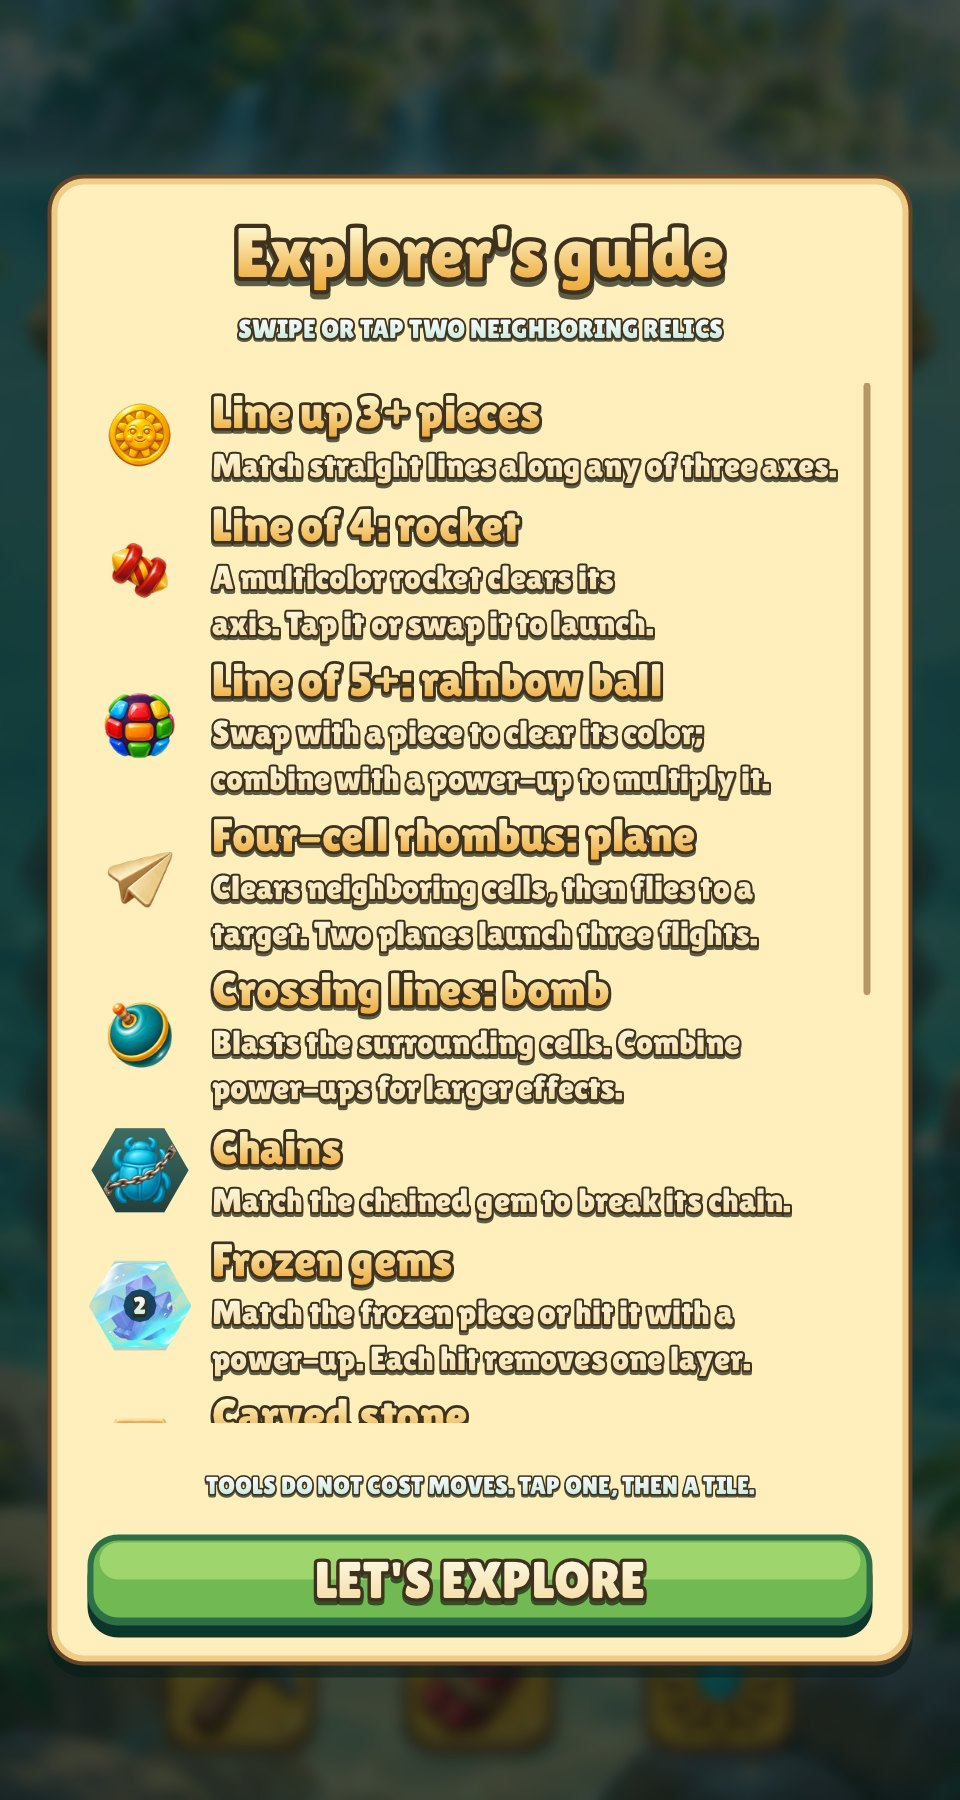
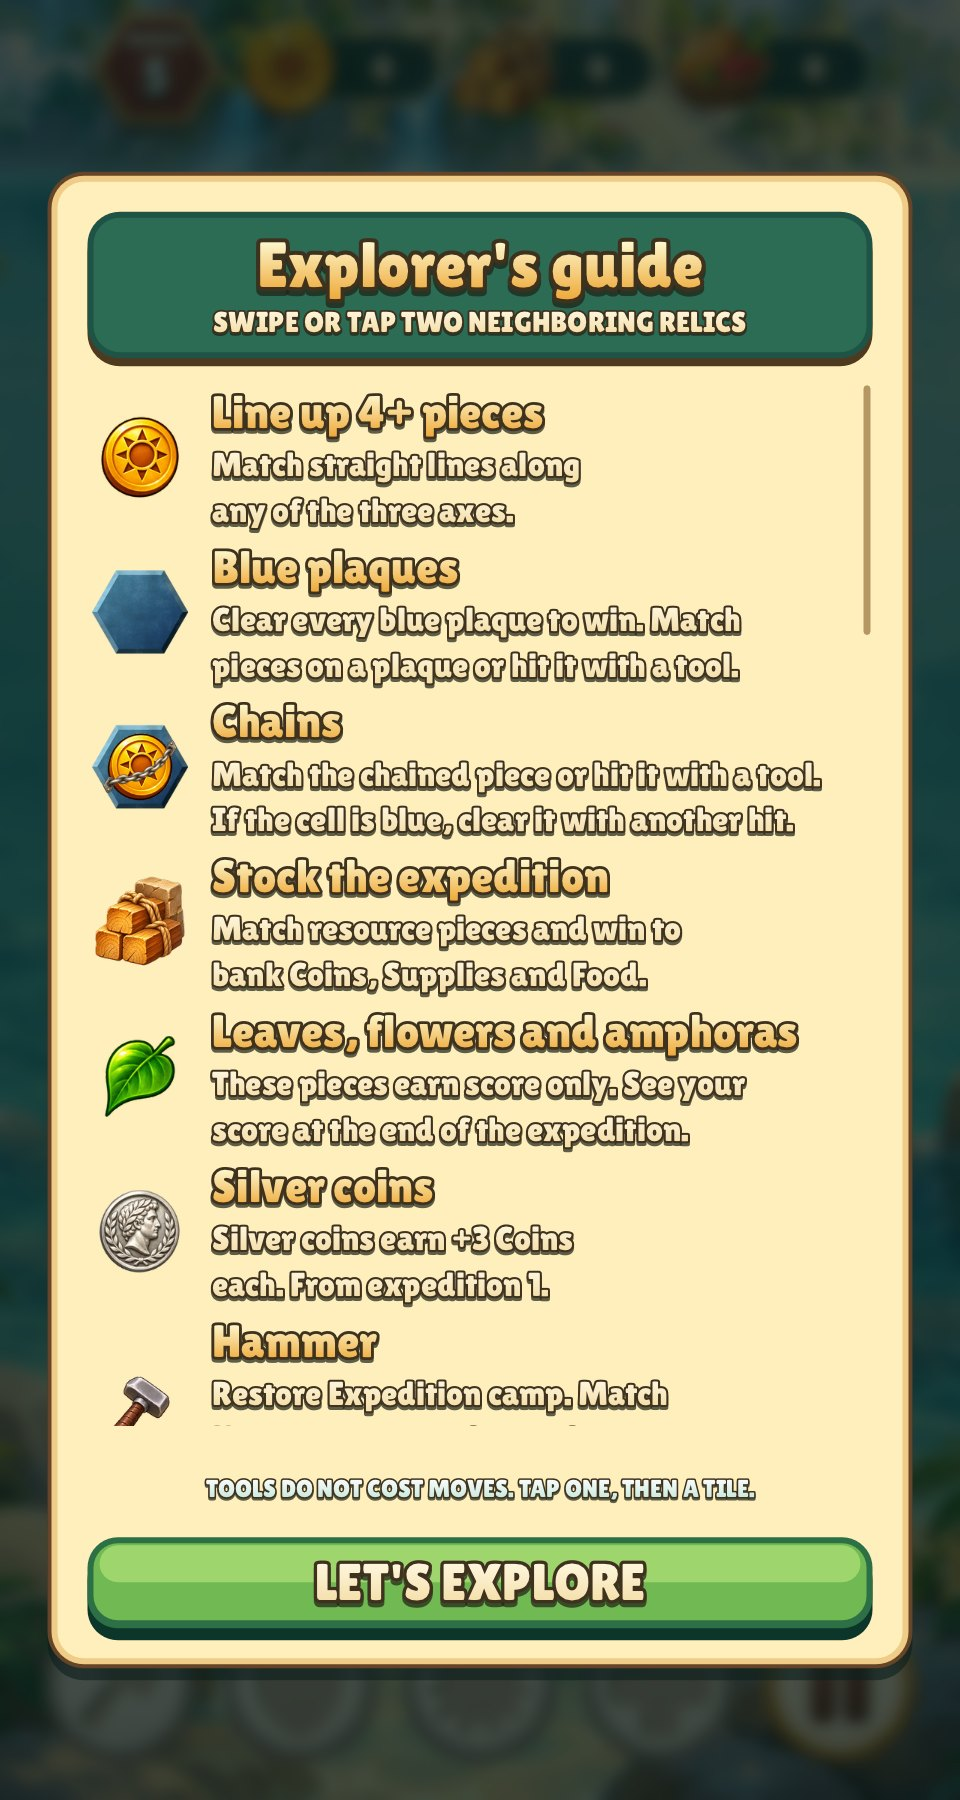
Use five kinds and straight match-four on every Relic Rush expedition

diff --git a/games/relic-rush/README.md b/games/relic-rush/README.md
@@ -4,7 +4,7 @@ From the repository root, `make -C games/relic-rush ios` builds, signs, installs
 and launches on the connected iPhone. Set `DEVICE="name or UDID"` to select one.
 See the [device deployment guide](../../tools/xcode/README.md#deploy-to-a-connected-iphone-or-ipad).
 
-A portrait mobile-first hex match-3 / island-restoration prototype, written in C11 on the repository's shared platform engine ([`engine/`](../../engine)), the same engine that runs [Nile Archive](../nile-archive). The island is the engine's `city`; text, shapes, input, camera, saves and sound come from the engine; this folder holds the rules, the content and the look. The WebAssembly preview runs the same C code; the browser page is only a fullscreen canvas.
+A portrait mobile-first hex match-4 / island-restoration prototype, written in C11 on the repository's shared platform engine ([`engine/`](../../engine)), the same engine that runs [Nile Archive](../nile-archive). The island is the engine's `city`; text, shapes, input, camera, saves and sound come from the engine; this folder holds the rules, the content and the look. The WebAssembly preview runs the same C code; the browser page is only a fullscreen canvas.
 
 Launch straight into level one. Swipe adjacent relics, or tap one and then its neighbor. Clear all blue tablets within the move budget, claim resources, restore the next building on the island, and set out again. The story runs across the first thirty of the hundred boards, in three episodes: it restores the ten wonders and ends with the valley singing and five lights answering at sea. Boards 31-100 are playable without story yet. The island is a scrollable 1920 × 2880 world with six unlockable regions, freely placed buildings and persistent positions.
 
@@ -70,7 +70,7 @@ Captured from the engine build with `make shots` (headless, software renderer). 
 
 | Hexagonal expeditions | Restored island |
 | --- | --- |
-| ![First hex match-3 level](docs/screenshots/hex-first.jpg) | ![Settlement with freely placed buildings](docs/screenshots/island-village.jpg) |
+| ![First hex match-4 level](docs/screenshots/hex-first.jpg) | ![Settlement with freely placed buildings](docs/screenshots/island-village.jpg) |
 | ![Chains and blue tablets on board 22](docs/review/chains-only/board-after-480x900.jpg) | ![Choose and confirm a building location](docs/screenshots/island-placement.jpg) |
 | ![Large island with locked regions](docs/screenshots/island-zones.jpg) | ![Boards required to open land](docs/screenshots/island-unlock.jpg) |
 | ![Buildings stand clear of the soft fog at a region border](docs/screenshots/island-fog.jpg) | ![A building that can't go here turns red](docs/screenshots/island-blocked.jpg) |
@@ -137,14 +137,14 @@ Coloured match fragments, resource trails and cascade chimes follow each clear. 
 
 See [effect reference study](docs/effects.md). The reel uses deterministic test boards; actual iPhone/Android performance still needs device testing.
 
-## Current match-3 rules and boards
+## Current match-4 rules and boards
 
 The widest nine-cell board spans 448 of the 480 logical screen units, using a 32-unit cell radius and 16-unit side margins. Gems and cell artwork scale together from their authored sizes: gems retain their transparent padding, and cell faces and state panels retain a small inset so neighbouring cells do not overlap. The entrance returns to a 1× pose when it finishes or is skipped. The board remains centred between the goals and tools on both phone sizes. See the [wide-board and cell-fit correction](docs/review/gem-cell-fit/README.md).
 
 The pale limestone and blue tablets meet at hairline seams on one continuous
 board surface. [Before and after at both phone sizes](../../docs/review/match3-board-seams/README.md).
 
-The minimum match is **three identical relics in a straight line** along any of the three hex axes. Bends and diamonds do not count. Ready lines resolve automatically before further input and after each fall. There are no special pieces: a longer line just clears. The 100 boards sit on a 9 x 12 rectangle of flat-top hexes, with real holes and diagonal refill routes. The gold idol now has a six-sided silhouette.
+The minimum match is **four identical relics in a straight line** along any of the three hex axes. Bends and diamonds do not count. Ready lines resolve automatically before further input and after each fall. There are no special pieces: a longer line just clears. The 100 boards sit on a 9 x 12 rectangle of flat-top hexes, with real holes and diagonal refill routes. The gold idol now has a six-sided silhouette.
 
 After five idle seconds, a legal swap is highlighted. If there is no legal swap, the board reshuffles for free and displays “No moves. Board reshuffled.” This recovery also runs after cascades; the free shuffle rearranges the movable pieces around chains and keeps the blue tablets in place. See the [dead-board regression and captures](docs/review/dead-board/README.md).
 
@@ -157,7 +157,7 @@ See [matching rules, board shape, implementation notes and reference sources](do
 
 ## New art direction
 
-The match-3 scenes now use two original runtime backgrounds: **Sunlit Lagoon** for levels 1–5 and **Moonlit Sun Temple** for levels 6–10; each later episode reuses those paintings, opening on the lagoon and moving into the temple. The study draws on Tropicats and Candy Crush for playable-screen readability, and June's Journey / Pearl's Peril for garden islands and adult adventure characters.
+The match-4 scenes now use two original runtime backgrounds: **Sunlit Lagoon** for levels 1–5 and **Moonlit Sun Temple** for levels 6–10; each later episode reuses those paintings, opening on the lagoon and moving into the temple. The study draws on Tropicats and Candy Crush for playable-screen readability, and June's Journey / Pearl's Peril for garden islands and adult adventure characters.
 
 See the [reference study, original cast and asset gallery](docs/art-direction-v2.md) and [complete generation prompts](docs/art-direction-v2-prompts.json).
 
@@ -187,7 +187,7 @@ On a 390 × 844 iPhone (safe-area insets 47 top, 34 bottom) the island and the j
 
 ## Expedition and restoration loop
 
-1. Start directly in the first match-3 level; there is no title-screen or friend-road detour.
+1. Start directly in the first match-4 level; there is no title-screen or friend-road detour.
 2. Clear all blue tablets within the move budget.
 3. Claim the matched resources. A first clear counts as a cleared board.
 4. Return to the island. At a restoration milestone, check the price and replay an expedition if you need more resources. Nothing blocks the next expedition: you can play on without building and come back when you can afford it.
@@ -211,7 +211,7 @@ condition and effect it supports. Each event fires once per profile, and the
 save keeps which events are done.
 
 - **Tutorials.** The move hint repeats with the board's 1st, 2nd, 3rd and
-  5th suggestion until the first line of three. Toasts introduce tablets,
+  5th suggestion until the first line of four. Toasts introduce tablets,
   double tablets, chains, double chains, ice, the low-moves warning, each
   charged bonus and the catalogue.
 - **Citizens.** Tomas joins as soon as the Well is restored. Other building events open a citizen’s challenge. Examples: a line of five after the Workshop, 120 Supplies on
@@ -288,7 +288,7 @@ A region must touch opened land and meet its boards-cleared gate. Expansion spen
 
 ## Play
 
-- Swap adjacent pieces to make a straight line of three or more identical pieces along any hex axis. A longer line or a crossing just clears: there are no special pieces. As in Cradle of Rome, power comes only from the bonus tools, charged by matching bonus gems.
+- Swap adjacent pieces to make a straight line of four or more identical pieces along any hex axis. A longer line or a crossing just clears: there are no special pieces. As in Cradle of Rome, power comes only from the bonus tools, charged by matching bonus gems.
 - Match or land a tool hit on a chained piece to break the chain. A later hit clears a blue tablet on that cell. Ice and carved stones are other blockers; they gate the fall below them.
 - Cascades increase score multipliers. Gathered resources animate toward their wallet slots. The result screen shows the matched resource totals and any remaining cost of the next restoration.
 - Restore buildings to unlock Hammer, Shield, Star and Plus. A later restoration

diff --git a/games/relic-rush/docs/match4-rules.md b/games/relic-rush/docs/match4-rules.md
@@ -5,7 +5,7 @@ This supersedes the prototype's connected-group match-4 rules.
 ## Matching
 
 - Exchange two side-adjacent movable relics, by swiping or tapping both.
-- A contiguous **straight line of three or more identical relics** matches along any of the three hex axes. Bends, triangles, diamonds and rings do not count on their own. Side branches are not part of a line.
+- A contiguous **straight line of four or more identical relics** matches along any of the three hex axes. Bends, triangles, diamonds and rings do not count on their own. Side branches are not part of a line.
 - A swap without a line through either swapped cell returns without spending a move.
 - Any line clears normally, whatever its length. There are no special pieces of any kind: like Cradle of Rome, power comes only from the bonus tools along the bottom edge (Hammer/Dynamite, Shield/Lightning, Star/Star II, Plus/Plus II), charged by matching bonus gems and unlocked by restoring buildings.
 - Crossing lines clear their union once. There are no T/L or ring recipes.
@@ -14,7 +14,7 @@ This supersedes the prototype's connected-group match-4 rules.
 - The expedition's top bar shows the hexagonal Moves medallion, Coins, Supplies, Food and Settings. Blue tablets mark the objective on the board. Tools sit along the bottom edge. Settings opens the Explorer's Guide and lets the player resume, restart after confirmation, or quit to the island and resume the same board from Expeditions. See the [top bar review](screenshots/review/top-bar-moves/README.md).
 - Hints highlight a legal swap after five idle seconds. If the hint search finds no swap, idle boards use the same free reshuffle as boards settling after a fall, with a “No moves. Board reshuffled.” notice. Recovery resets selection/tool targeting and stale hints, preserving move/tool budgets, objective progress, holes, sand, ice, chains and their locked relics. Victory and exhausted moves take precedence over reshuffling.
 
-The shared engine's `LINE_MATCHES` flag selects this detector for both Relic Rush and Christmas Market. The engine has no special pieces at all. Generation, hints, reshuffling and cascades use the same rule in both games.
+The shared engine's `LINE_MATCHES` flag selects this detector for both Relic Rush and Christmas Market. The engine has no special pieces at all. Generation, hints, reshuffling and cascades respect each game’s configured minimum.
 
 ## Board shape
 
@@ -30,8 +30,8 @@ See [shared engine and atlas contract](../../../docs/MATCH3_ENGINE.md) and [befo
 
 ## Validation
 
-- Seeded startup boards across all 100 boards: no pre-existing straight match and at least one legal opening move.
-- Three/four/five/six runs on all axes, rejected triangles/diamonds/rings, excluded branches, crossing triples, swap rollback, and hole-separated runs.
+- Seeded startup boards across all 100 boards: no pre-existing straight match and at least one legal opening move. Every opening exchange, including its cascades, leaves at least one tablet.
+- Three/four/five/six runs on all axes, rejected triangles/diamonds/rings, excluded branches, crossing lines of four, swap rollback, and hole-separated runs.
 - Independent coordinate-based line oracle and exhaustive runs in both directions for every color and length.
 - Existing blockers, gravity, tools, update-loop cascades, hints and reshuffles.
 
@@ -42,4 +42,4 @@ See [shared engine and atlas contract](../../../docs/MATCH3_ENGINE.md) and [befo
 - [Match 4 – Hex, developer page](https://dimcairion.itch.io/match-4-hex): an independent hex swap/match-4 prototype demonstrating the genre. No code or assets were imported.
 - [Candy Crush official modes guide](https://candycrush.zendesk.com/hc/en-us/articles/360000754897-Which-game-modes-will-I-find): varying objectives and mixed modes complement level-layout variety.
 
-The hexagonal grid does not mandate a four-piece minimum. Relic Rush uses three in a straight line; longer lines earn no extra piece.
+The hexagonal grid does not mandate a four-piece minimum. Relic Rush uses four in a straight line; longer lines earn no extra piece.

diff --git a/README.md b/README.md
@@ -5,7 +5,7 @@ One repository, one small **C11 + platform** engine, games driven by **Lua** on 
 | | Game | Core loop | Meta-game |
 | --- | --- | --- | --- |
 | ![](games/nile-archive/docs/screenshots/island.jpg) | **[Архив Нила / Nile Archive](games/nile-archive/README.md)** (Russian) | Hidden-object scenes painted in Ptolemaic Egypt | Restore an island estate: buildings, influence, new shores |
-| ![](games/relic-rush/docs/screenshots/hex-first.jpg) | **[Relic Rush · The Lost Valley](games/relic-rush/README.md)** (English) | Hex match-3 (a Cradle of Rome style clone) on 100 boards of 9 x 12 hexes with chains, ice and carved stones | Restore an island: twenty buildings placed freely, regions and decorations opened by boards cleared |
+| ![](games/relic-rush/docs/screenshots/hex-first.jpg) | **[Relic Rush · The Lost Valley](games/relic-rush/README.md)** (English) | Hex match-4 (a Cradle of Rome style clone) on 100 boards of 9 x 12 hexes with chains, ice and carved stones | Restore an island: twenty buildings placed freely, regions and decorations opened by boards cleared |
 | ![](games/christmas-market/docs/screenshots/market.jpg) | **[Christmas Market](games/christmas-market/README.md)** (English, prototype) | Festive hex match-3 on 100 boards of 9 x 12 hexes | Build a snowy Christmas market with twenty stalls and attractions, repeatable decorations and Noelle as the market keeper |
 | ![](games/emergency/docs/screenshots/outskirts.jpg) | **[Emergency · After the Eruption](games/emergency/README.md)** (English) | Dispatch workers, clear routes, repair supply stations and evacuate five districts | A linked rescue campaign with recruits, pet escorts and saved chapter progress |
 

diff --git a/games/relic-rush/docs/board-progression.md b/games/relic-rush/docs/board-progression.md
@@ -15,10 +15,10 @@ double tablets from 10, carved stones from 15 and double chains from 51.
 fitted by `python3 tools/tune_moves.py relic-rush` and listed with each
 board's tier in [level-moves.md](level-moves.md).
 
-Every board spawns five kinds, as Cradle of Rome does on all 100 of its
-levels. With six, lines of three were so rare on the 108-cell boards that the
-reference bot needed about 200 moves a board. Refills are damped from the
-second cascade wave (`refill_damping=2`), so one move rarely clears a board.
+Every board from 1 to 100 uses five piece kinds. Swapping neighbours must
+form a straight line of four or more. The same minimum applies after a fall.
+Each new deal checks every opening exchange through its entire cascade and
+redeals if any exchange clears all the plaques. Refill damping begins on the second wave (`refill_damping=2`).
 
 The green apple's slot (kind 2, 1 Food, never upgraded) is the special slot:
 the bonus gem, a story item or a score piece takes it, and the bonus moves to

diff --git a/docs/MATCH3_ENGINE.md b/docs/MATCH3_ENGINE.md
@@ -65,8 +65,8 @@ Both games use a `columns` x `rows` rectangle of flat-top hexes (9 x 12, odd
 columns half a cell lower) with arbitrary missing cells. The hexagon mode
 (`radius`, 1 to 16) still exists and the engine tests use it. The default is
 `match_min=3` with `LINE_MATCHES`; explicit `flags=0` retains legacy
-connected-group matching. A match is a straight line of three or more pieces
-of one kind along the three hex axes. Matches only clear. As in Cradle of
+connected-group matching. A match is a straight line of one kind along any of the three hex axes.
+Relic Rush requires four pieces and Christmas Market requires three. Matches only clear. As in Cradle of
 Rome, no line length or shape creates a special piece; a player's extra power
 comes from the game's tools and boosters. Overlapping runs form one group and
 count each cell once. Longer runs can still pay more through

diff --git a/docs/PORTRAIT_GAMES.md b/docs/PORTRAIT_GAMES.md
@@ -1,6 +1,7 @@
 # Relic Rush and Christmas Market: one game, two skins
 
-Relic Rush and Christmas Market are the same portrait match-3 city game. Both
+Relic Rush and Christmas Market share the portrait puzzle and city engine.
+Relic Rush matches four in a line and Christmas Market matches three. Both
 should differ only in data: Lua settings, levels, campaign and story content, skin and art
 tables, and PNGs. Behaviour belongs to the engine:
 
